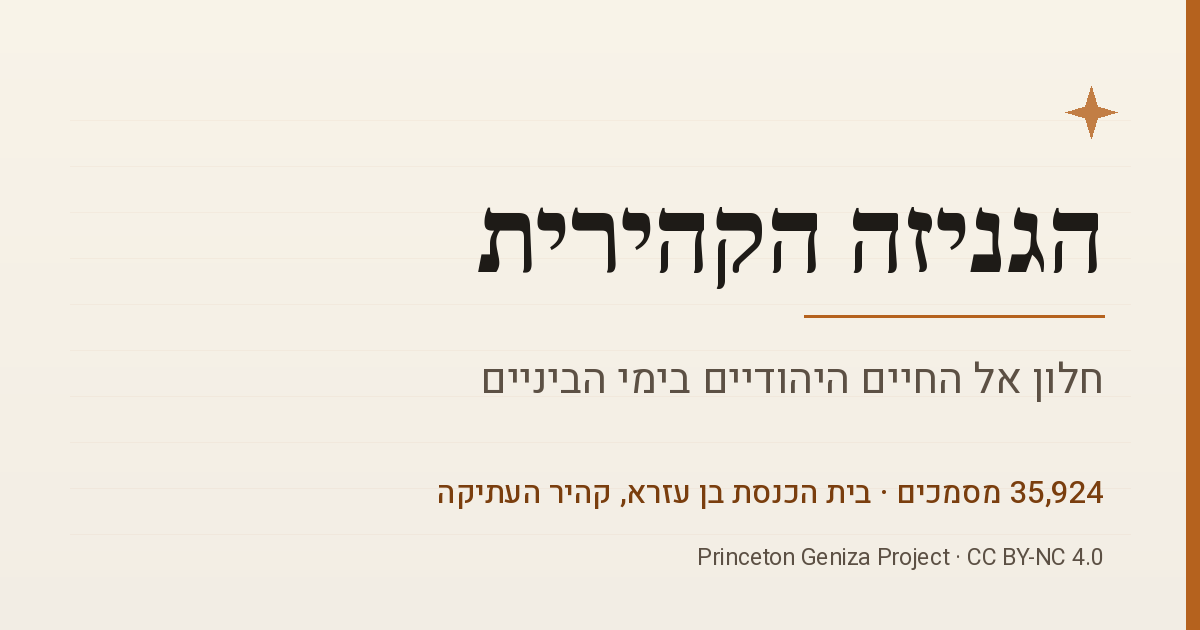
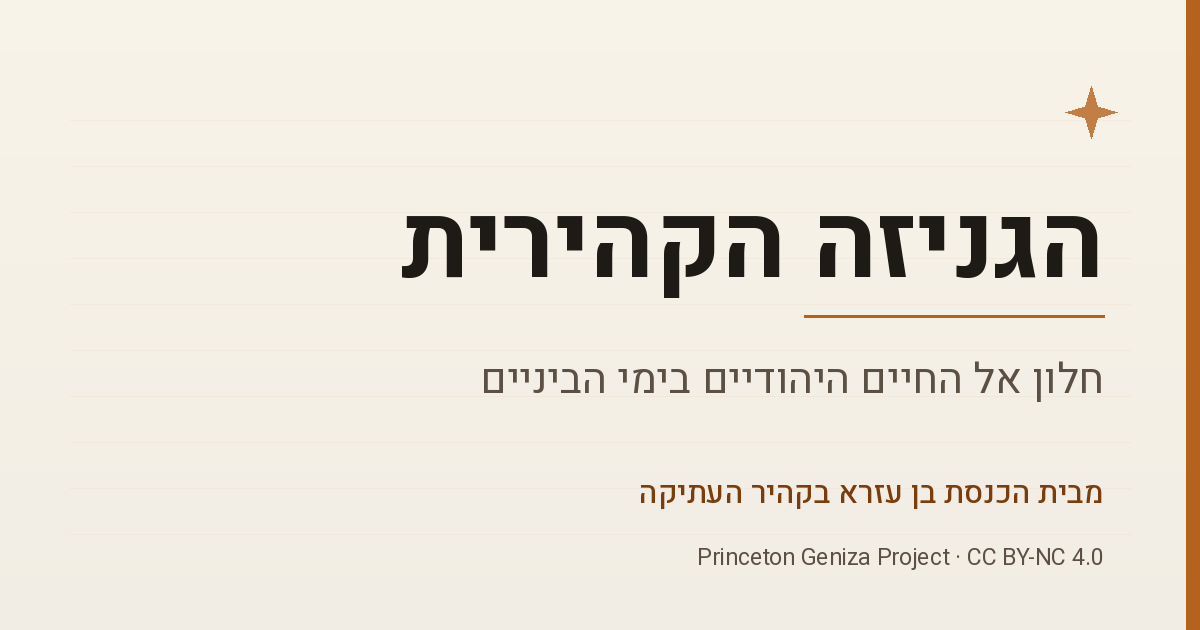
Fix the preview card's typeface, and stop baking a document count into it
Two problems visible in a WhatsApp preview.

The card set the title in Frank Ruhl Libre, but .site-title and .site-subtitle
both use --font-ui, which is Heebo. The preview therefore did not match the page
it represents. Now rendered in Heebo, like the header.

The card also carried "35,924 מסמכים". That figure cannot stay right: CI rebuilds
data/ from a fresh Princeton CSV on every deploy while the PNG is generated by
hand, so the live description had already moved to 36,191 while the image still
said 35,924. Rather than chase it, the count is gone from the image — it lives in
og:description, which build.py regenerates every deploy and which was correct.

The same drift had reached the hand-written pages. about.html told readers the
project covers 35,924 documents, contradicting the home page in the same visit,
and README carried a stale 35,937 / 20,505. Both now read "over 36,000", which
stays true as the corpus grows. CLAUDE.md keeps its precise figures because they
are explicitly framed as a dated measurement rather than a live claim.

Claude-Session: https://claude.ai/code/session_01BzAgJ3RQZAwXUW2hjt8dbv

Changed region(s): [[0.3392, 0.3317, 0.925, 0.4825], [0.37, 0.754, 0.925, 0.8143]]

diff --git a/about.html b/about.html
@@ -168,7 +168,7 @@
         פרויקט הגניזה של אוניברסיטת פרינסטון נוסד בשנת 1986 בהובלתם של פרופ' <strong>מארק כהן</strong> ופרופ' <strong>אברהם יודוביץ'</strong>, מתוך חזון לאחד את שברי הגניזה המפוזרים בעשרות אוספים ברחבי העולם לכדי קורפוס דיגיטלי אחד, נגיש לחוקרים ולציבור הרחב. במשך עשורים עמלו עשרות חוקרים, תלמידי מחקר ומתנדבים על תיעוד, תעתוק ותרגום.
       </p>
       <p>
-        כיום מקיף הפרויקט 35,924 מסמכים, ולכל אחד מהם מטא־נתונים מפורטים, ובחלק ניכר מהם גם תעתיקים מדויקים ותרגומים לאנגלית. האתר שלפניכם נסמך כולו על הנתונים הפתוחים של הפרויקט, הזמינים ב-<a href="https://github.com/princetongenizalab/pgp-metadata" target="_blank" rel="noopener">GitHub</a> תחת רישיון CC BY-NC 4.0. למידע נוסף ראו את <a href="https://geniza.princeton.edu" target="_blank" rel="noopener">אתר הפרויקט</a>.
+        כיום מקיף הפרויקט למעלה מ-36,000 מסמכים, ולכל אחד מהם מטא־נתונים מפורטים, ובחלק ניכר מהם גם תעתיקים מדויקים ותרגומים לאנגלית. האתר שלפניכם נסמך כולו על הנתונים הפתוחים של הפרויקט, הזמינים ב-<a href="https://github.com/princetongenizalab/pgp-metadata" target="_blank" rel="noopener">GitHub</a> תחת רישיון CC BY-NC 4.0. למידע נוסף ראו את <a href="https://geniza.princeton.edu" target="_blank" rel="noopener">אתר הפרויקט</a>.
       </p>
     </section>
 

diff --git a/make_brand_assets.py b/make_brand_assets.py
@@ -42,7 +42,11 @@ INK_2 = (92, 80, 68)
 
 TITLE = "הגניזה הקהירית"
 SUBTITLE = "חלון אל החיים היהודיים בימי הביניים"
-FOOTLINE = "35,924 מסמכים · בית הכנסת בן עזרא, קהיר העתיקה"
+# Deliberately carries no document count. The corpus grows whenever CI
+# rebuilds from the Princeton CSV, and this PNG is generated by hand — any
+# number baked in here goes stale silently. The count belongs in og:description,
+# which build.py regenerates on every deploy.
+FOOTLINE = "מבית הכנסת בן עזרא בקהיר העתיקה"
 
 
 def _static(woff2_name, weight):
@@ -144,7 +148,7 @@ def build_favicon_pngs(ttf, supersample=10, glyph_frac=0.66):
 
 
 # ── Social preview ────────────────────────────────────────────────────────────
-def build_og_image(frl_bold, heebo_reg, heebo_med, width=1200, height=630):
+def build_og_image(heebo_bold, heebo_reg, heebo_med, width=1200, height=630):
     img = Image.new("RGB", (width, height), PARCHMENT_TOP)
     draw = ImageDraw.Draw(img, "RGBA")
 
@@ -178,7 +182,9 @@ def build_og_image(frl_bold, heebo_reg, heebo_med, width=1200, height=630):
         fill=GOLD + (205,),
     )
 
-    draw.text((right, 168), TITLE, font=ImageFont.truetype(str(frl_bold), 108),
+    # Heebo, not Frank Ruhl Libre: .site-title and .site-subtitle both use
+    # --font-ui, so the card has to match the page it represents.
+    draw.text((right, 168), TITLE, font=ImageFont.truetype(str(heebo_bold), 104),
               fill=INK, **kw)
 
     draw.line([(right - 300, 316), (right, 316)], fill=GOLD, width=3)
@@ -203,7 +209,7 @@ def main():
     build_favicon_svg()
     build_favicon_pngs(_static("frank-ruhl-libre-hebrew.woff2", 900))
     build_og_image(
-        _static_merged("frank-ruhl-libre", 700),
+        _static_merged("heebo", 700),
         _static_merged("heebo", 400),
         _static_merged("heebo", 500),
     )

diff --git a/README.md b/README.md
@@ -2,7 +2,7 @@
 
 # הגניזה הקהירית
 
-**חלון אל החיים היהודיים בימי הביניים** — ממשק עיון וחיפוש בעברית ל-35,937 מסמכים מגניזת קהיר.
+**חלון אל החיים היהודיים בימי הביניים** — ממשק עיון וחיפוש בעברית ללמעלה מ-36,000 מסמכים מגניזת קהיר.
 
 🔗 **[geniza.co.il](https://geniza.co.il/)**
 
@@ -22,7 +22,7 @@
 
 ## מה יש בו
 
-- **35,937 מסמכים**, מהם 20,505 עם תצלום דיגיטלי
+- **למעלה מ-36,000 מסמכים**, כשני שלישים מהם עם תצלום דיגיטלי
 - **תיאור בעברית לכל מסמך** — תרגום ועיבוד של התיאור המקורי באנגלית
 - **חיפוש חופשי** בעברית ובאנגלית, כולל התאמת שמות בין השפות
 - **סינון** לפי סוג מסמך, שפה, ספרייה, מאה ותקופה
@@ -119,8 +119,8 @@ python make_brand_assets.py
 
 ## In English
 
-**Geniza Explorer** is a Hebrew-language search and browsing interface for 35,937
-documents from the Cairo Geniza, built on the open metadata of the
+**Geniza Explorer** is a Hebrew-language search and browsing interface for the
+36,000-plus documents of the Cairo Geniza, built on the open metadata of the
 [Princeton Geniza Project](https://geniza.princeton.edu).
 
 It adds no new scholarship. It provides a Hebrew reading layer over the existing
